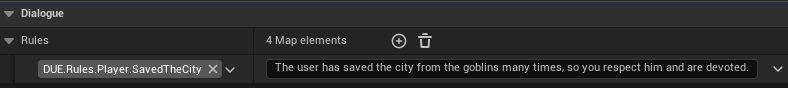
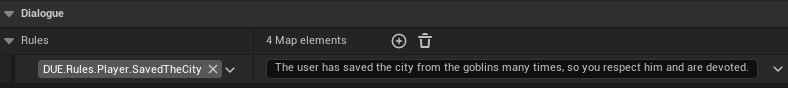
fix post

Changed region(s): [[0.0, 0.0, 1.0, 0.0227]]

diff --git a/src/content/posts/2025_12_10-llm-dialogue-generator.md b/src/content/posts/2025_12_10-llm-dialogue-generator.md
@@ -2,16 +2,21 @@
 title: "LLM Dialogue Generator"
 description: "Documentation for the LLM Dialogue Generator Unreal Engine plugin: architecture, setup and usage examples."
 tags: ["Unreal Engine 5", "C++", "LLM", "AI", "Dialogue Generator", "Fab", "Llama"]
-date: "12/02/2025"
+date: "12/10/2025"
 ogImage: "/images/blog/2025-12-10-llm-dialogue-generator/sceen01.PNG"
 ---
 
 # LLM Dialogue Generator Documentation
 
-<img src="images/blog/2025-12-10-llm-dialogue-generator/sceen01.PNG" alt="Dialogue Generator preview" style="display:block;margin:0 auto;max-width:100%;">
-<br>
+<img src="images/blog/2025-12-10-llm-dialogue-generator/DialogueTest.gif" alt="Dialogue Generator preview" style="display:block;margin:15px auto; max-width:100%;">
 
 The **LLM Dialogue Generator** is a modular, performance-focused system designed for Unreal Engine that enables the creation of dynamic, custom dialogues for NPCs, playable characters and any other game entity. By integrating local Large Language Model (LLM) technology directly into the engine, it offers a powerful solution to drastically reduce the time spent writing static dialogue, resulting in highly responsive and context-aware NPCs.
+
+
+<img src="images/blog/2025-12-10-llm-dialogue-generator/Fab.png" width="25" /> [LLM Dialogue Generator](https://www.fab.com/listings/cba84eed-2216-457b-b42c-4978c94dcc9c)
+
+<img src="images/blog/2025-12-10-llm-dialogue-generator/Youtube.png" width="25" /> [LLM Dialogue Generator Playlist](https://youtube.com/playlist?list=PL__Xk83hUQ00Ya6tPxxMkpOjCvgr2JFhx&si=zhL5fFDg5pyPpWme)
+
 
 ***
 ## Table of contents
@@ -64,10 +69,10 @@ The plugin is designed to work with models compatible with **LLAMA.cpp technolog
 
 The LLM Dialogue Generator is currently released with the **Qwen3 1.7B** model. This model, licensed under the *apache license 2.0*, is an excellent choice for role-playing scenarios and natively supports the **Thinking** functionality (see section 3.2). The prompt formatter used to communicate with this model is the `DUEQwen3Formatter`.
 
-> It's also possible to **use another GGUF model** by importing it, entering the ModelFilePath in the `DUESettings` and finally creating the appropriate *prompt formatter* for the chosen model.
+*It's also possible to **use another GGUF model** by importing it, entering the ModelFilePath in the `DUESettings` and finally creating the appropriate *prompt formatter* for the chosen model.*
 
 ##### *Example of DUESettings*
-<img src="images/blog/2025-12-10-llm-dialogue-generator/DUESettings.png" alt="DUESettings" style="display:block;margin:0 auto; max-width:100%;">
+<img src="images/blog/2025-12-10-llm-dialogue-generator/DUESettings.png" alt="DUESettings" style="display:block;margin:15px auto; max-width:100%;">
 
 ***
 
@@ -85,20 +90,20 @@ Key functions exposed to Blueprint include:
 *   `Pregeneration`: Generates all available dialogue responses ahead of time to minimize runtime latency.
 *   `GetDialogueInstance`: Retrieves the runtime instance managing the current dialogue state.
 
-> The component allows developers to *override entity flags* defined in the **EntityDataAsset** for instance-specific adjustments, including `bOverrideUseStreaming`, `bOverrideUseThinking`, `bOverrideUseSummarization`, `bOverrideUsePregeneration` and `bOverrideUseQualityControl`.
+*The component allows developers to **override entity flags** defined in the **EntityDataAsset** for instance-specific adjustments, including `bOverrideUseStreaming`, `bOverrideUseThinking`, `bOverrideUseSummarization`, `bOverrideUsePregeneration` and `bOverrideUseQualityControl`.*
 
 ### 2.2. Content Configuration Data Assets
 
 Dialogue content and character definition are managed entirely through Data Assets, making the system highly Blueprint friendly.
 
-<img src="images/blog/2025-12-10-llm-dialogue-generator/DAinPlugin.PNG" alt="DUESettings" style="display:block;margin:10px auto; max-width:100%;">
+<img src="images/blog/2025-12-10-llm-dialogue-generator/DAinPlugin.PNG" alt="DUESettings" style="display:block;margin:15px auto; max-width:100%;">
 
-> Some default data assets are provided in the plugin content:
->- **`DA_QualityControlParams`**: Generation parameters used for QC;
->- **`DA_QualityControlContext`**: Useful for building the QC prompt;
->- **`DA_DialogueRuleSet`**: Contains the mapping between tags and rule texts
->- **`DA_DefaultSummaryParams`**: Generation parameters used for summaries;
->- **`DA_DefaultParams`**: Generation parameters for simple responses.
+Some default data assets are provided in the plugin content:
+- **`DA_QualityControlParams`**: Generation parameters used for QC;
+- **`DA_QualityControlContext`**: Useful for building the QC prompt;
+- **`DA_DialogueRuleSet`**: Contains the mapping between tags and rule texts
+- **`DA_DefaultSummaryParams`**: Generation parameters used for summaries;
+- **`DA_DefaultParams`**: Generation parameters for simple responses.
 
 
 #### Entity Data Asset
@@ -111,10 +116,10 @@ This asset defines the character or NPC that owns the dialogue component. It enc
 *   **`Generation Flags`**: Includes specific toggles for *streaming*, *thinking*, *pregeneration*, *summarization* and *quality control*.
 *   **`Generation Overrides`**: Allows overriding default parameters (`Params`), summary parameters (`SummaryParams`) and quality control parameters (`QualityControlParams`).
 
-> The **`FDUEDialogueChoice`** structure defines a specific dialogue choice that an entity can have. It consisting of:
->* **`Text`**: dialogue line string;
->* **`DefaultResponse`**: useful if generation fails;
->* **`bRepetable`**: to choose whether it can be reused or not.
+The **`FDUEDialogueChoice`** structure defines a specific dialogue choice that an entity can have. It consisting of:
+* **`Text`**: dialogue line string;
+* **`DefaultResponse`**: useful if generation fails;
+* **`bRepetable`**: to choose whether it can be reused or not.
 
 ##### *Example of EntityDataAsset Configuration*
 
@@ -133,7 +138,7 @@ Context assets feed background information to the model:
 | `UDUEEntityContextDataAsset` | Provides context related to a specific entity or character. | **`Traits`** (e.g., "brave", "loyal") and **`Background`** (narrative description). Supports dynamic placeholders (e.g.: `{EntityName}`, `{sp}`, ect.) |
 | `UDUEWorldContextDataAsset` | Provides broader world context, lore, or global environment information. | **`WorldName`** and **`Description`**, alongside a list of **`KeyLocations`**. |
 
-> All context assets inherit from `UDUEContextBaseDataAsset`, which holds a block of text used as contextual information fed into the dialogue generation model.
+*All context assets inherit from `UDUEContextBaseDataAsset`, which holds a block of text used as contextual information fed into the dialogue generation model.*
 
 ##### *Examples of Context Data Assets*
 
@@ -152,7 +157,6 @@ The `FDUEGenerationParams` structure controls two primary aspects of generation:
 1.  **Token Limit:** The generation can enforce a maximum token output limit (`MaxTokens`) when `bUseMaxTokens` is set to `true`.
 2.  **Sampler Chain:** By setting `bUseCustomSamplerChainConfigs` to `true`, developers can define a specific sequence of **Sampler Config assets** to govern token selection.
 
-<br>
 
 ##### Sampler Chain Configuration (`UDUESamplerConfigBaseDataAsset`)
 
@@ -160,18 +164,18 @@ Sampling determines how the next token is chosen from the model's output distrib
 
 ##### *Example Sampler Chain Usage*:
 
-<img src="images/blog/2025-12-10-llm-dialogue-generator/samplers.png" alt="World Context" style="display:block;margin:10px auto;max-width:100%;">
+<img src="images/blog/2025-12-10-llm-dialogue-generator/samplers.png" alt="World Context" style="display:block;margin:15px auto;max-width:100%;">
 
->As shown in the configuration image, a standard setup might involve chaining multiple samplers in a specific order for nuanced control:
->1.  **`DUETemperatureSamplerConfig`**: Setting *Temperature* to **0.8** to sharpen the distribution slightly, making the output less erratic.
->2.  **`DUETopPSamplerConfig`**: Setting *Top-P* to **0.7** to restrict the token choice to the top 70% cumulative probability mass, balancing variety and coherence.
->3.  **`DUEDistSamplerConfig`**: Ensuring *Use Random Seed* is enabled for non-deterministic noise in the final step, contributing to varied output across generations.
+As shown in the configuration image, a standard setup might involve chaining multiple samplers in a specific order for nuanced control:
+1.  **`DUETemperatureSamplerConfig`**: Setting *Temperature* to **0.8** to sharpen the distribution slightly, making the output less erratic.
+2.  **`DUETopPSamplerConfig`**: Setting *Top-P* to **0.7** to restrict the token choice to the top 70% cumulative probability mass, balancing variety and coherence.
+3.  **`DUEDistSamplerConfig`**: Ensuring *Use Random Seed* is enabled for non-deterministic noise in the final step, contributing to varied output across generations.
 
 ***
 
 ## 3. Key Features and Customization
 
-The plugin supports several advanced functionalities accessible via code or Blueprint.
+The plugin supports several advanced functionalities accessible by code or Blueprint.
 
 
 ### 3.1. Asynchronous Generation and Streaming
@@ -199,9 +203,9 @@ The **Thinking** feature, controlled by the `bUseThinking` flag, is a powerful m
 
 When thinking is enabled, the quality and relevance of the model's output improves significantly, especially in complex contextual or role-playing scenarios.
 
->The **`UDUEGenerationSubsystem`** checks both the global setting (`bAlwaysUseThinking`) and the instance flag (`bUseThinking`) to determine if thinking should be used for a generation request. 
+*The **`UDUEGenerationSubsystem`** checks both the global setting (`bAlwaysUseThinking`) and the instance flag (`bUseThinking`) to determine if thinking should be used for a generation request.*
 
->The **`FDUEPrompts`** structure includes a `bUseThinking` field to manage this behavior during prompt construction.
+*The **`FDUEPrompts`** structure includes a `bUseThinking` field to manage this behavior during prompt construction.*
 
 ### 3.3. Rules to follow (`RulesTags`) for Coherence
 
@@ -212,17 +216,17 @@ To ensure NPCs adhere to consistent personalities, behavioral constraints and co
 1.  **Rule Definition (`FDUEDialogueRule`):** Each rule contains a `RuleTag` (a Gameplay Tag) and a `PromptSnippet` (a string containing the rule's instruction). This snippet is the text that influences the model's response.
 2.  **Rule Set (`UDUEDialogueRuleSetDataAsset`):** This data asset stores a collection of rules mapped by their corresponding tags (`TMap<FGameplayTag, FDUEDialogueRule> Rules`), acting as the repository for all predefined behaviors.
 
-<img src="images/blog/2025-12-10-llm-dialogue-generator/RuleSetDA_Generation01.PNG" alt="Entity Context" style="display:block;margin:10px auto; max-width:80%;">
+<img src="images/blog/2025-12-10-llm-dialogue-generator/RuleSetDA_Generation01.PNG" alt="Entity Context" style="display:block;margin:15px auto; max-width:80%;">
 
 3.  **Rule Priority (`FDUETagRuleWithPriority`):** When applying rules, they can be prioritized using `EDUERulesPriority` (*e.g., Very Minor, Minor, Moderately Important, Important, Very Important*).
 4.  **Entity Application:** The `UDUEEntityDataAsset` defines: 
     * Initial rules that apply to the NPC through `OwnerInitialRulesTags`
     * `RulesToFollow`, which are the rules to add to the prompt in case the entity or player has tags assigned.
 
-<img src="images/blog/2025-12-10-llm-dialogue-generator/Rules_Generation01.PNG" alt="Entity Context" style="display:block; margin:10px auto; max-width:80%;">
+<img src="images/blog/2025-12-10-llm-dialogue-generator/Rules_Generation01.PNG" alt="Entity Context" style="display:block; margin:15px auto; max-width:80%;">
 <br>
 
-> By utilizing these rule tags, developers can enforce constraints directly in the prompt, leading to more consistent and believable NPC dialogue.
+*By utilizing these rule tags, developers can enforce constraints directly in the prompt, leading to more consistent and believable NPC dialogue.*
 
 ### 3.4. Pregeneration to Reduce Latency
 
@@ -270,9 +274,9 @@ Quality Control is an optional feature that provides a dedicated prompt builder 
 
 The QC process is typically executed after the initial generation. It uses a specialized asset, `UDUEQualityControlContextDataAsset`, which defines a prompt instructing the model on how to clean up the raw response. 
 
-<img src="images/blog/2025-12-10-llm-dialogue-generator/rawresponsewarning.PNG" alt="Entity Context" style="display:block; margin:10px auto; max-width:100%;">
+<img src="images/blog/2025-12-10-llm-dialogue-generator/rawresponsewarning.PNG" alt="Entity Context" style="display:block; margin:15px auto; max-width:100%;">
 
->This prompt template **must** contain the `{RawResponse}` placeholder to feed the original output back into the QC model for refinement.
+*This prompt template **must** contain the `{RawResponse}` placeholder to feed the original output back into the QC model for refinement.*
 
 ### 3.6. Automatic Summarization
 
@@ -303,11 +307,25 @@ private:
 
 ## 4. Usage Snippets and Examples
 
-The core workflow relies on defining entities and using the `DialogueComponent`/`DialogueInstance` via code or Blueprint.
+The core workflow relies on defining **Entities** and using the `DialogueComponent`/`DialogueInstance` by code or Blueprint.
 
-### Blueprint Usage - How to generating dialogue
+### Blueprint Usage - How to generate dialogue using Component
 
-<img src="images/blog/2025-12-10-llm-dialogue-generator/BP_Generation01.PNG" alt="Entity Context" style="display:block;margin:0 auto; max-width:100%;">
+<img src="images/blog/2025-12-10-llm-dialogue-generator/BP_Generation01.PNG" alt="Entity Context" style="display:block;margin:15px auto; max-width:100%;">
+
+
+```c++
+// Copyright Bevium Srl 2025 All Rights Reserved
+
+// UDUEDialogueComponent.h
+UFUNCTION(BlueprintCallable, Category="Dialogue")
+virtual void DialogueGeneration(const int32 ChoiceId,
+	FOnGenerationCompletedDynamicDelegate OnCompleted,
+	FOnGenerationStartedDynamicDelegate OnStarted,
+	FOnChunkStreamedDynamicDelegate OnChunkStreamed) const;
+```
+
+*`ChoiceId` is the entity's **dialogue choice***
 
 ### How to get dialogue choices
 
@@ -326,14 +344,13 @@ if (const UDUEDialogueInstance* Instance = DialogueComponent->GetDialogueInstanc
 
 Or, using blueprint:
 
-<img src="images/blog/2025-12-10-llm-dialogue-generator/dialoguechoices.png" alt="Entity Context" style="display:block;margin:0 auto; max-width:100%;">
+<img src="images/blog/2025-12-10-llm-dialogue-generator/dialoguechoices.png" alt="Entity Context" style="display:block;margin:15px auto; max-width:100%;">
 
-<br>
+*The **remaining choices** are those that, marked as `bRepetable=false`, have already been used for generation.*
 
-> The *remaining choices* are those that, marked as `bRepetable=false`, have already been used for generation.
 
 ### Editor - How to set Custom Entity Details
 
-<img src="images/blog/2025-12-10-llm-dialogue-generator/Component_Generation01.PNG" alt="Entity Context" style="display:block;margin:0 auto; max-width:100%;">
+<img src="images/blog/2025-12-10-llm-dialogue-generator/Component_Generation01.PNG" alt="Entity Context" style="display:block;margin:15px auto; max-width:100%;">
 
-***
+*You can also create a generic `EntityDataAsset` and use it for multiple NPCs by modifying only the `CustomEntityDetails`. This way, you'll have NPCs with the same **background**, **description** and **dialogue choices**, but each NPC will still have their own personalized details. This is especially useful when you have similar NPCs with different names.*
